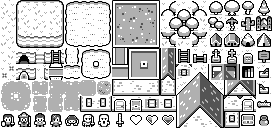
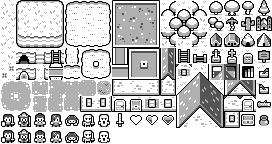
Get the player moving and a camera working

diff --git a/lib/input.rb b/lib/input.rb
@@ -1,0 +1,101 @@
+class Input
+  include Node
+
+  attr_reader :pressed
+
+  def initialize
+    @keys = {
+      left: {
+        keys: [KEY_A, KEY_LEFT],
+        gestures: [GESTURE_SWIPE_LEFT],
+        buttons: [
+          GAMEPAD_BUTTON_LEFT_FACE_LEFT,
+          GAMEPAD_BUTTON_RIGHT_FACE_LEFT,
+        ]
+      },
+
+      right: {
+        keys: [KEY_D, KEY_RIGHT],
+        gestures: [GESTURE_SWIPE_RIGHT],
+        buttons: [
+          GAMEPAD_BUTTON_LEFT_FACE_RIGHT,
+          GAMEPAD_BUTTON_RIGHT_FACE_RIGHT,
+        ]
+      },
+
+      up: {
+        keys: [KEY_W, KEY_UP],
+        gestures: [GESTURE_SWIPE_UP],
+        buttons: [
+          GAMEPAD_BUTTON_LEFT_FACE_UP,
+          GAMEPAD_BUTTON_RIGHT_FACE_UP,
+        ]
+      },
+
+      down: {
+        keys: [KEY_S, KEY_DOWN],
+        gestures: [GESTURE_SWIPE_DOWN],
+        buttons: [
+          GAMEPAD_BUTTON_LEFT_FACE_DOWN,
+          GAMEPAD_BUTTON_RIGHT_FACE_DOWN,
+        ]
+      },
+    }
+
+    @pressed = Hash.new(false)
+  end
+
+  def update(_)
+    check_keys
+  end
+
+  def left_pressed?
+    was_pressed? :left
+  end
+
+  def right_pressed?
+    was_pressed? :right
+  end
+
+  def up_pressed?
+    was_pressed? :up
+  end
+
+  def down_pressed?
+    was_pressed? :down
+  end
+
+  def clear_pressed(direction)
+    @pressed[direction] = false
+  end
+
+  private
+  def was_pressed?(input)
+    if @pressed[input]
+      @pressed[input] = false
+      return true
+    end
+
+    return false
+  end
+
+  def check_keys
+    @keys.each { |input, inputs|
+      @pressed[input] = true if check_keyboard(inputs[:keys]) ||
+        check_gestures(inputs[:gestures]) ||
+        check_gamepad(inputs[:buttons])
+    }
+  end
+
+  def check_keyboard(keys)
+    keys.any? { key_down? _1 }
+  end
+
+  def check_gestures(gestures)
+    gestures.include? get_gesture_detected
+  end
+  
+  def check_gamepad(buttons)
+    buttons.any? { gamepad_button_pressed? 0, _1 }
+  end
+end

diff --git a/scenes/main.rb b/scenes/main.rb
@@ -3,11 +3,62 @@ class Main
 
   def setup
     @health = Health.new
-    add_child(@health)
+
+    @player = Player.new
+    add_child @player
+
+    @map_position = Rectangle.new(-16, -16, $map.width, $map.height)
+
+    @camera = Camera2D.new(
+      Vector2.new(320, 240),
+      Vector2.new(320, 240),
+      0,
+      1
+    )
   end
 
   def draw
-    $map.draw
-    super
+    clear
+    @camera.drawing {
+      $map.draw(destination: @map_position)
+      super
+    }
+    @health.draw
+    draw_fps(20, 20)
+  end
+
+  def update(delta)
+    $input.update(delta)
+    @health.update(delta)
+
+    if @player.idle?
+      if $input.left_pressed?
+        @player.move(:left)
+        add_child Delay.new(length: 0.3) { $input.clear_pressed(:left) }
+      elsif $input.right_pressed?
+        @player.move(:right)
+        add_child Delay.new(length: 0.3) { $input.clear_pressed(:right) }
+      elsif $input.up_pressed?
+        @player.move(:up)
+        add_child Delay.new(length: 0.3) { $input.clear_pressed(:up) }
+      elsif $input.down_pressed?
+        @player.move(:down)
+        add_child Delay.new(length: 0.3) { $input.clear_pressed(:down) }
+      end
+    end
+
+    update_camera(delta)
+  end
+
+  def update_camera(delta)
+    if @player.destination.x >= 320 - 32 &&
+        @player.destination.x <= ($map.width - 320 - 32)
+      @camera.target.x = @player.destination.x + 16
+    end
+
+    if @player.destination.y >= 240 - 32 &&
+        @player.destination.y <= ($map.height - 240 - 32)
+      @camera.target.y = @player.destination.y + 16
+    end
   end
 end

diff --git a/nodes/player/state/moving.rb b/nodes/player/state/moving.rb
@@ -1,0 +1,53 @@
+class Player
+  class State
+    class Moving
+      include Node
+
+      def initialize(parent, direction)
+        @parent = parent
+        @direction = direction
+        @original_position = Vector2.new(
+          parent.destination.x,
+          parent.destination.y
+        )
+      end
+
+      def update(delta)
+        case @direction
+        when :left
+          @parent.destination.x -= speed(delta)
+          if @parent.destination.x <= @original_position.x - 32
+            @parent.destination.x = @original_position.x - 32
+            @parent.start_idling
+          end
+
+        when :right
+          @parent.destination.x += speed(delta)
+          if @parent.destination.x >= @original_position.x + 32
+            @parent.destination.x = @original_position.x + 32
+            @parent.start_idling
+          end
+
+        when :up
+          @parent.destination.y -= speed(delta)
+          if @parent.destination.y <= @original_position.y - 32
+            @parent.destination.y = @original_position.y - 32
+            @parent.start_idling
+          end
+
+        when :down
+          @parent.destination.y += speed(delta)
+          if @parent.destination.y >= @original_position.y + 32
+            @parent.destination.y = @original_position.y + 32
+            @parent.start_idling
+          end
+        end
+      end
+
+      private
+      def speed(delta)
+        64 * delta
+      end
+    end
+  end
+end

diff --git a/nodes/player.rb b/nodes/player.rb
@@ -1,0 +1,65 @@
+require 'nodes/player/state/idle'
+require 'nodes/player/state/moving'
+
+class Player
+  include Node
+  include StateMachine
+  state_machine(
+    states: {
+      idle: Player::State::Idle,
+      moving: Player::State::Moving,
+    }
+  )
+
+
+  attr_accessor :destination, :player_tile
+  def initialize
+    @player_tile = coin_flip ? 121 : 122
+    @destination = Rectangle.new(
+      320, 240, # Centre of the screen
+      32, 32
+    )
+    @tile_position = Vector2::ZERO
+    start_idling
+    add_child Delay.new(length: 0.3) { toggle_sprite }
+  end
+
+  def tile_position
+    @tile_position.x = (@destination.x / 32).to_i
+    @tile_position.y = (@destination.y / 32).to_i
+    @tile_position
+  end
+
+  def idle?
+    @state.is_a? Player::State::Idle
+  end
+
+  def render
+    $tiles.draw(
+      destination: @destination,
+      source: $tilemap.tile_for(@player_tile)
+    )
+  end
+
+  def start_idling
+    transition_to :idle, self
+  end
+
+  def move(direction)
+    transition_to :moving, self, direction
+  end
+
+  def update(delta)
+    state.tick(delta)
+  end
+
+  private
+  def toggle_sprite
+    if @player_tile > 130
+      @player_tile -= 17
+    else
+      @player_tile += 17
+    end
+    add_child Delay.new(length: 0.3) { toggle_sprite }
+  end
+end

diff --git a/game.rb b/game.rb
@@ -4,12 +4,17 @@ $: << './vendor'
 require 'rok-engine/core'
 require 'rok-engine/extras'
 
+require 'lib/helpers'
+require 'lib/input'
 require 'lib/tilemap'
 
 require 'nodes/health'
+require 'nodes/player'
 
 require 'scenes/taylor_splash'
 require 'scenes/main'
+
+seed_rand
 
 # Open up a window
 init_window(640, 480, "You Only Die Once")
@@ -20,18 +25,20 @@ init_audio_device
 # Get the current monitor frame rate and set our target framerate to match.
 set_target_fps(get_monitor_refresh_rate(get_current_monitor))
 
-image = Image.load('./assets/tilemap.png').resize!(width: 272 * 2, height: 128 * 2)
+image = Image.load('./assets/tilemap.png').tap { |image|
+  image.resize!(width: image.width * 2, height: image.height * 2)
+}
 $resources = ResourceManager.new
 $tilemap = Tilemap.new(
   image: image,
   size: 32
 )
 
+$input = Input.new
+
 $tiles = image.to_texture
-#$tiles = image.copy.replace!(WHITE, Colour.new(255, 0, 255, 0)).to_texture
 
 $map = $tilemap.generate_from('./assets/map.csv').to_texture
-
 
 ## TODO
 # Character

diff --git a/lib/tilemap.rb b/lib/tilemap.rb
@@ -25,7 +25,7 @@ class Tilemap
     @width = ids.first.size
     @height = ids.size
 
-    map = Image.generate(width: @width * 18, height: @height * 18, colour: BLUE)
+    map = Image.generate(width: @width * @size, height: @height * @size, colour: BLUE)
 
     ids.each.with_index { |row, y|
       row.each.with_index { |id, x|

diff --git a/scenes/taylor_splash.rb b/scenes/taylor_splash.rb
@@ -6,7 +6,7 @@ class TaylorSplash
     add_child(FadeIn.new(0.5){})
 
     add_child(Delay.new(length: 3) {
-      add_child(FadeOut.new(0.5){
+      add_child(FadeOut.new(0.5) {
         $scene_manager.switch_to(Main.new)
       })
     })

diff --git a/nodes/player/state/idle.rb b/nodes/player/state/idle.rb
@@ -1,0 +1,16 @@
+class Player
+  class State
+    class Idle
+      include Node
+
+      def initialize(parent)
+        @parent = parent
+
+        @timer = 0
+      end
+
+      def update(delta)
+      end
+    end
+  end
+end

diff --git a/lib/helpers.rb b/lib/helpers.rb
@@ -1,0 +1,5 @@
+# Just misc functions, don't judge me for having a toolbox file!
+
+def coin_flip
+  rand <= 0.5
+end
